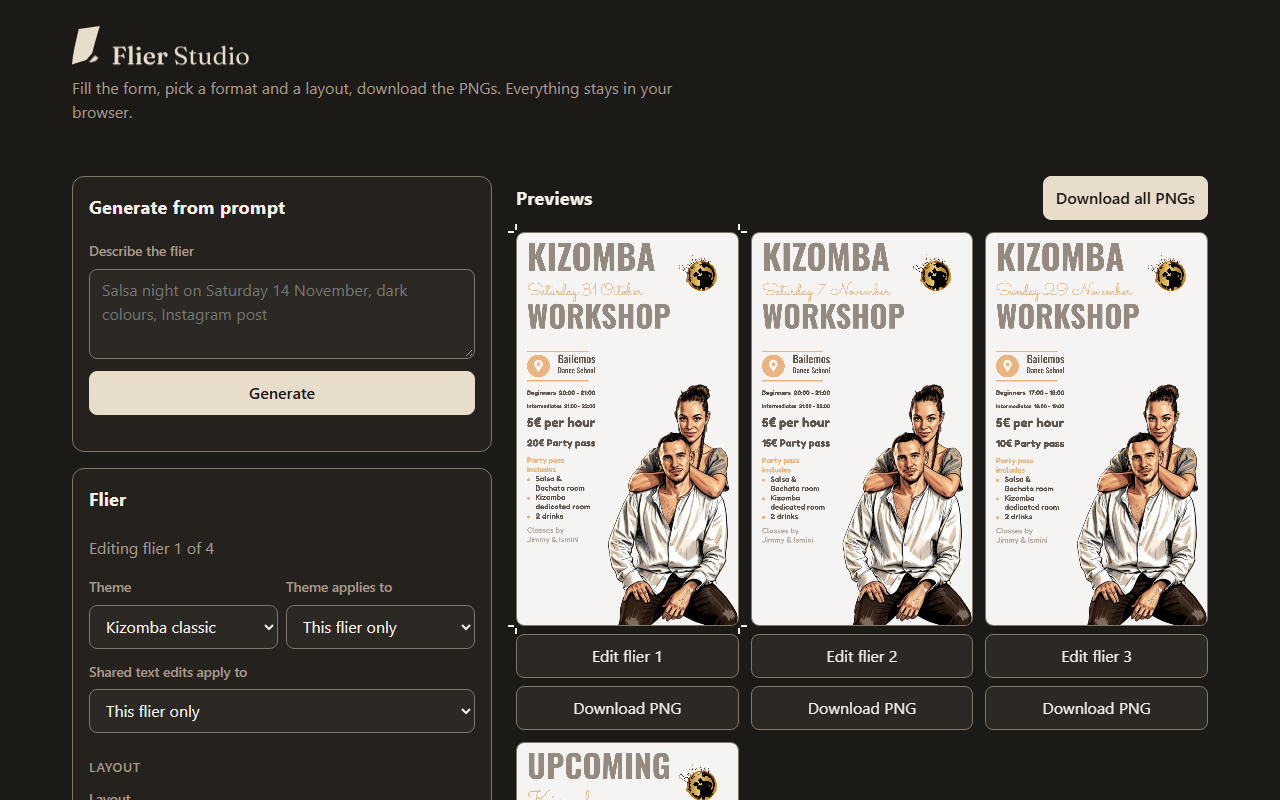
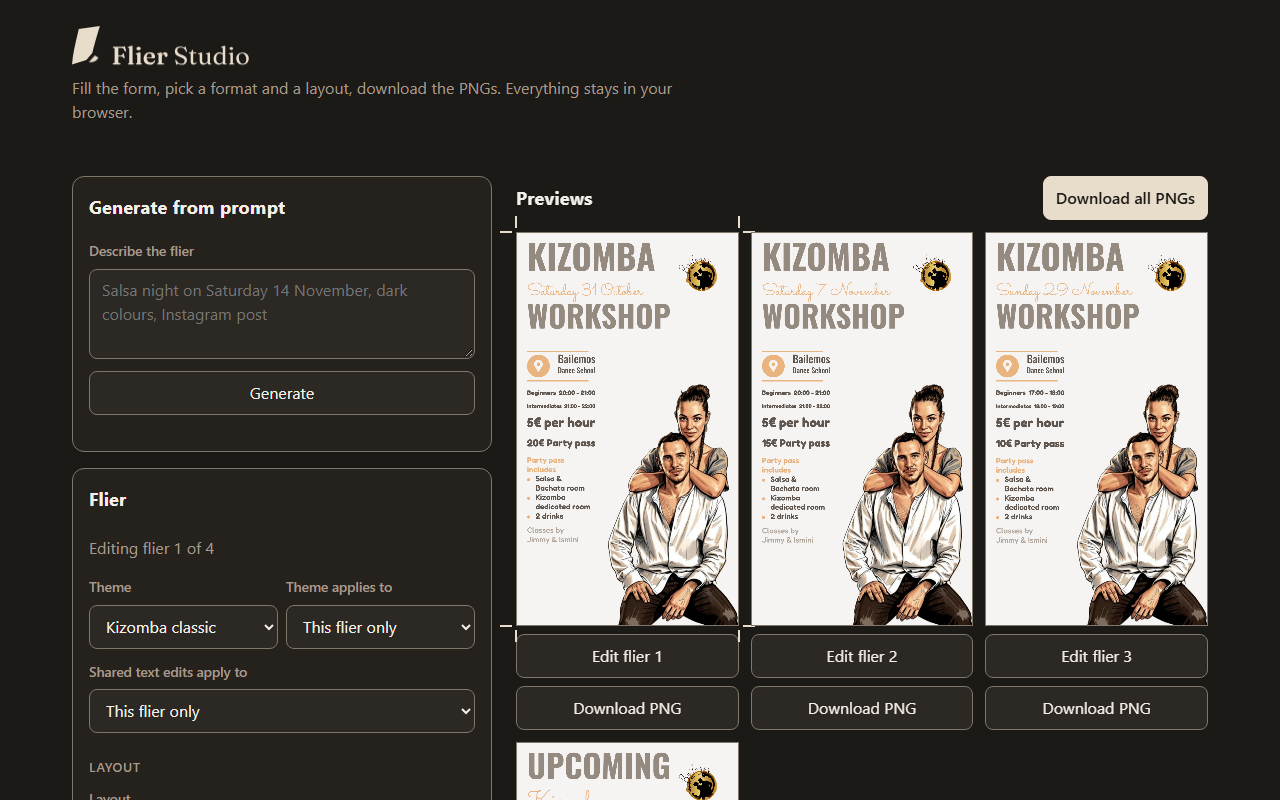
style(flier-studio): FLIER-2 "Flier Studio follow-ups" critique fixes: Generate outlined, square flier canvases, 12x2 crop marks, R1 page band
Generate drops the primary fill (R8 one filled primary per view); flier and mini-sheet canvases radius 0 (R6); selected-flier crop marks 12x2 px in brand fill, 4 px off the sheet; @dloizides/design-tokens 1.17.0 page #ebe8e3 (R1). After frames recaptured with the same steps.

visual-review: docs/design/FLIER-2-rules/critique-2026-10-28.md

Changed region(s): [[0.0625, 0.4375, 0.375, 0.5312]]

diff --git a/src/ui/styles.css b/src/ui/styles.css
@@ -97,22 +97,22 @@ dialog[open] { animation: dialog-enter var(--motion-slow) var(--ease-decelerate)
 }
 
 figure { margin: 0; display: grid; gap: 8px; align-content: start; min-width: 0; }
-figure canvas { width: 100%; height: auto; display: block; border-radius: 8px; border: 1px solid var(--border); }
+figure canvas { width: 100%; height: auto; display: block; border-radius: 0; border: 1px solid var(--border); }
 .trim { position: relative; }
 figure.selected .trim::after {
   content: "";
   position: absolute;
-  inset: -8px;
+  inset: -16px;
   pointer-events: none;
   background:
-    linear-gradient(var(--text), var(--text)) left 0 top 7px / 6px 2px no-repeat,
-    linear-gradient(var(--text), var(--text)) right 0 top 7px / 6px 2px no-repeat,
-    linear-gradient(var(--text), var(--text)) left 0 bottom 7px / 6px 2px no-repeat,
-    linear-gradient(var(--text), var(--text)) right 0 bottom 7px / 6px 2px no-repeat,
-    linear-gradient(var(--text), var(--text)) left 7px top 0 / 2px 6px no-repeat,
-    linear-gradient(var(--text), var(--text)) right 7px top 0 / 2px 6px no-repeat,
-    linear-gradient(var(--text), var(--text)) left 7px bottom 0 / 2px 6px no-repeat,
-    linear-gradient(var(--text), var(--text)) right 7px bottom 0 / 2px 6px no-repeat;
+    linear-gradient(var(--brand-fill), var(--brand-fill)) left 0 top 15px / 12px 2px no-repeat,
+    linear-gradient(var(--brand-fill), var(--brand-fill)) right 0 top 15px / 12px 2px no-repeat,
+    linear-gradient(var(--brand-fill), var(--brand-fill)) left 0 bottom 15px / 12px 2px no-repeat,
+    linear-gradient(var(--brand-fill), var(--brand-fill)) right 0 bottom 15px / 12px 2px no-repeat,
+    linear-gradient(var(--brand-fill), var(--brand-fill)) left 15px top 0 / 2px 12px no-repeat,
+    linear-gradient(var(--brand-fill), var(--brand-fill)) right 15px top 0 / 2px 12px no-repeat,
+    linear-gradient(var(--brand-fill), var(--brand-fill)) left 15px bottom 0 / 2px 12px no-repeat,
+    linear-gradient(var(--brand-fill), var(--brand-fill)) right 15px bottom 0 / 2px 12px no-repeat;
 }
 figcaption.row > * { flex: 1 1 100%; }
 
@@ -162,7 +162,7 @@ body { padding-bottom: calc(var(--mini-bar) + env(safe-area-inset-bottom)); }
 }
 .mini-sheet[open] { display: grid; gap: 12px; justify-items: center; }
 .mini-sheet::backdrop { background: color-mix(in srgb, var(--background) 72%, transparent); }
-.mini-sheet canvas { display: block; max-width: 100%; max-height: calc(100dvh - 140px); width: auto; height: auto; border-radius: 8px; }
+.mini-sheet canvas { display: block; max-width: 100%; max-height: calc(100dvh - 140px); width: auto; height: auto; border-radius: 0; }
 
 @media (min-width: 768px) {
   html { scroll-padding-bottom: 0; }

diff --git a/src/ui/promptPanel.ts b/src/ui/promptPanel.ts
@@ -31,7 +31,7 @@ export function renderPromptPanel(container: HTMLElement, apply: (doc: FlierDoc)
   container.replaceChildren(
     el('h2', { text: FM('prompt.heading') }),
     labelled('prompt.label', prompt),
-    button('prompt.generate', 'prompt-generate', () => void generate(), 'primary'),
+    button('prompt.generate', 'prompt-generate', () => void generate()),
     status,
   );
 }
